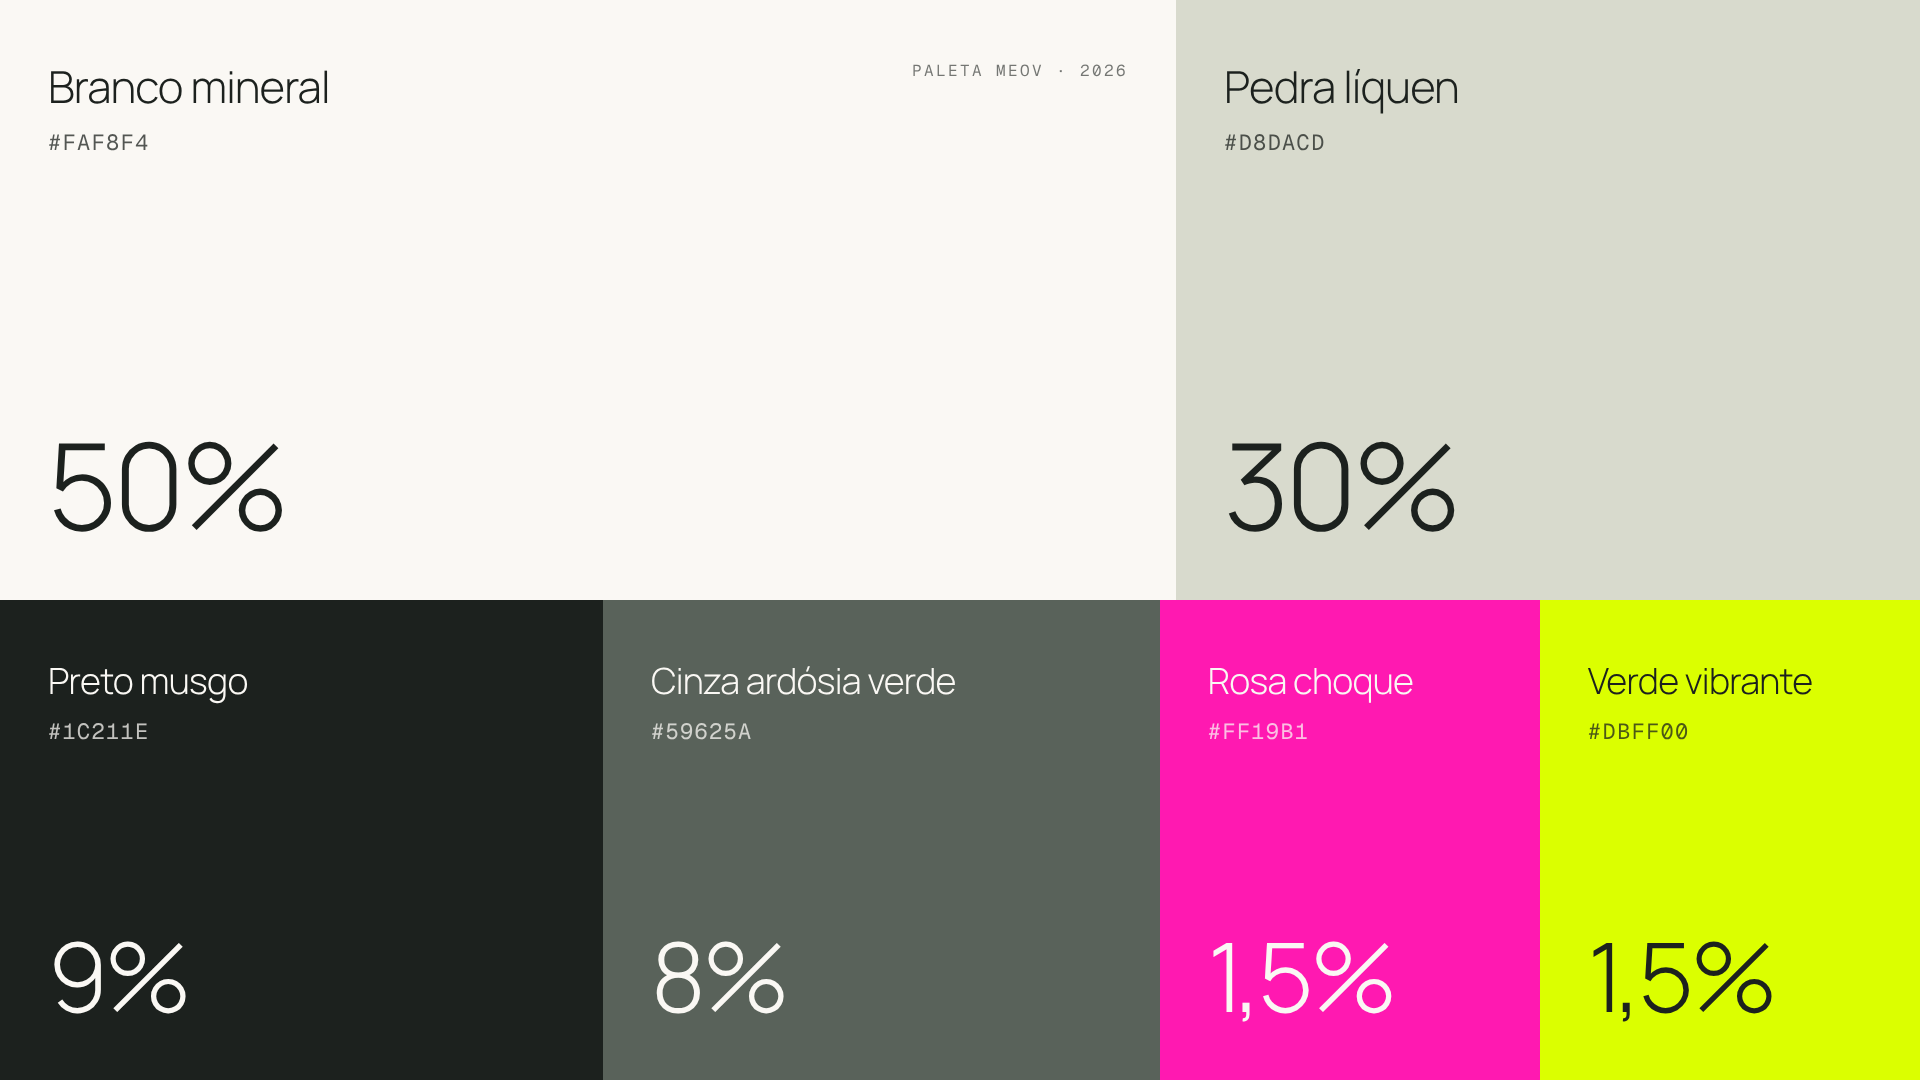
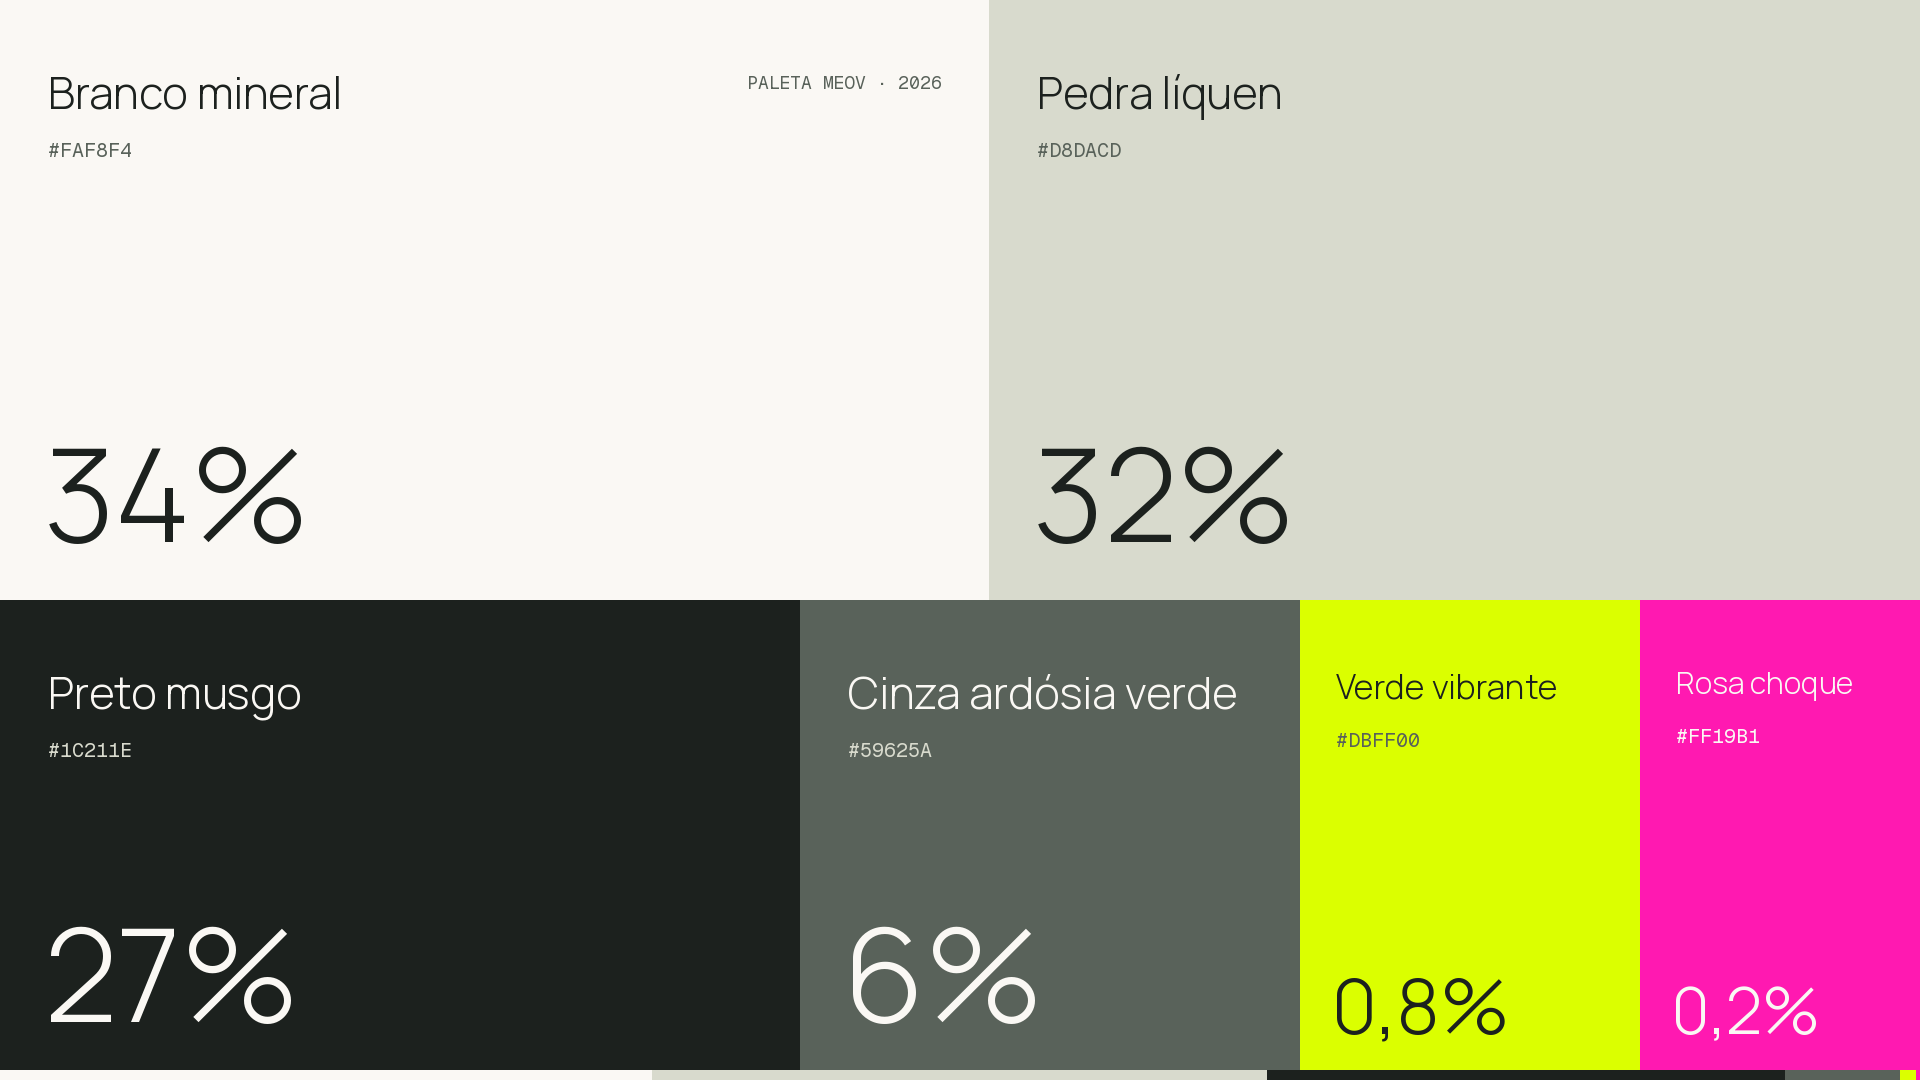
Revisa proporção da paleta da Meov
Branco 34%, pedra 32%, musgo 27%, ardósia 6%, verde 0,8% e rosa 0,2%.
Rosa passa a ser só detalhe estratégico e o verde, destaque de apoio.
Atualiza a imagem da paleta, o guia da marca e o guia das propostas.

Claude-Session: https://claude.ai/code/session_014T5j9G2CXQ5dQ1witiBPgc

diff --git a/brand/meov/paleta/gerador/paleta.py b/brand/meov/paleta/gerador/paleta.py
@@ -1,0 +1,31 @@
+from PIL import Image, ImageDraw, ImageFont
+import sys
+import os
+F=os.environ.get('FONT_DIR', os.path.expanduser('~/.fonts/'))
+light=lambda s: ImageFont.truetype(F+'Manrope_wght_300.ttf', s)
+mono=lambda s: ImageFont.truetype(F+'Geist_Mono_wght_400.ttf', s)
+W,H=1920,1080
+cols=[('Branco mineral','#FAF8F4','34%','#1C211E','#59625A'),('Pedra líquen','#D8DACD','32%','#1C211E','#59625A'),
+      ('Preto musgo','#1C211E','27%','#FAF8F4','#D8DACD'),('Cinza ardósia verde','#59625A','6%','#FAF8F4','#D8DACD'),
+      ('Verde vibrante','#DBFF00','0,8%','#1C211E','#59625A'),('Rosa choque','#FF19B1','0,2%','#FAF8F4','#FAF8F4')]
+props=[34,32,27,6,0.8,0.2]
+im=Image.new('RGB',(W,H)); d=ImageDraw.Draw(im)
+def block(x,y,w,h,c,big,nsize=44,psize=130):
+    n,bg,p,fg,sub=c
+    d.rectangle([x,y,x+w,y+h],fill=bg)
+    pad=48 if w>400 else 36
+    d.text((x+pad,y+62),n,font=light(nsize),fill=fg)
+    d.text((x+pad,y+62+nsize+30),bg,font=mono(20),fill=sub)
+    d.text((x+pad-4,y+h-pad-10),p,font=light(psize),fill=fg,anchor='ls')
+TH=600
+w1=round(W*34/66)
+block(0,0,w1,TH,cols[0],True); block(w1,0,W-w1,TH,cols[1],True)
+d.text((w1-48,70),'PALETA MEOV · 2026',font=mono(18),fill='#59625A',anchor='ra')
+ws=[800,500,340,280]; x=0
+for c,w,ns,ps in zip(cols[2:],ws,[44,44,34,30],[130,130,76,64]):
+    block(x,TH,w,H-TH,c,False,ns,ps); x+=w
+# faixa com a proporção real
+y0=H-10; x=0
+for c,p in zip(cols,props):
+    w=W*p/100; d.rectangle([x,y0,x+w,H],fill=c[1]); x+=w
+im.save(sys.argv[1])

diff --git a/brand/meov/README.md b/brand/meov/README.md
@@ -58,18 +58,18 @@ brand/meov/
 
 ## Paleta de cores (`paleta/`)
 
-Paleta atual, com a proporção de uso de cada cor. A marca Meov é a soma do **rosa** e do **verde** sobre o branco e os tons de cinza, então os dois aparecem na mesma medida.
+Paleta atual, com a proporção de uso de cada cor (revisada em outubro de 2026). A base é feita de branco, pedra e musgo; o **verde** é o destaque de apoio e o **rosa** aparece só em detalhes estratégicos.
 
 | Nome | HEX | Proporção | Uso |
 |---|---|---|---|
-| Branco mineral | `#FAF8F4` | 50% | fundo principal |
-| Pedra líquen | `#D8DACD` | 30% | cartões e superfícies |
-| Preto musgo | `#1C211E` | 9% | textos e peças de elegância |
-| Cinza ardósia verde | `#59625A` | 8% | textos de apoio |
-| Rosa choque | `#FF19B1` | 1,5% | destaque, em par com o verde |
-| Verde vibrante | `#DBFF00` | 1,5% | destaque, em par com o rosa |
+| Branco mineral | `#FAF8F4` | 34% | fundo de slides e peças com imagens e prints |
+| Pedra líquen | `#D8DACD` | 32% | fundo principal, cartões e superfícies |
+| Preto musgo | `#1C211E` | 27% | textos, fundos de elegância e capas |
+| Cinza ardósia verde | `#59625A` | 6% | textos de apoio e linhas |
+| Verde vibrante | `#DBFF00` | 0,8% | destaque de apoio: ícones, um cartão ou faixa por peça |
+| Rosa choque | `#FF19B1` | 0,2% | só detalhes estratégicos: o ponto que guia o olhar, o número que importa |
 
-Referência visual: `paleta/meov-paleta-atual.png`. A paleta parte da base da Aho, com o verde folha trocado pelo rosa da Meov.
+Referência visual: `paleta/meov-paleta-atual.png` (gerada por `paleta/gerador/paleta.py`, com Manrope e Geist Mono instaladas). A faixa fina na base da imagem mostra a proporção real. A paleta parte da base da Aho, com o verde folha trocado pelo rosa da Meov.
 
 **Paleta da identidade de 2023 (anterior):** preto uva passa `#202020`, verde vibrante `#DBFF00`, rosa choque `#FF19B1`, azul fluorescente `#31F8FF`, cinza tempestade `#4F5F66` e branco `#FFFFFF`. Referência: `paleta/meov-paleta-2023.png`. O pattern, as texturas e os logos em `logo/2023/` ainda usam essas cores.
 
@@ -102,7 +102,7 @@ SVGs na paleta atual. As versões **com fundo** têm 91,44 × 91,44 mm, como os 
 
 Visão geral de todas as versões: `logo/meov-logos-visao-geral.png`.
 
-Combinações recomendadas: preto musgo sobre fundos claros, branco mineral ou verde vibrante sobre fundos escuros, e o par rosa + verde como destaque. Evite verde vibrante sobre fundos claros, porque o contraste é baixo.
+Combinações recomendadas: preto musgo sobre fundos claros, branco mineral ou verde vibrante sobre fundos escuros; rosa só como detalhe. Evite verde vibrante sobre fundos claros, porque o contraste é baixo.
 
 ### Símbolo (`logo/simbolo/`)
 

diff --git a/propostas/README.md b/propostas/README.md
@@ -11,12 +11,12 @@ As propostas seguem a paleta e a tipografia atuais da Meov, descritas em [`brand
 
 | Cor | HEX | Uso |
 |---|---|---|
-| Branco mineral | `#FAF8F4` | 50% · fundo principal |
-| Pedra líquen | `#D8DACD` | 30% · cartões e superfícies |
-| Preto musgo | `#1C211E` | 9% · textos e slides de elegância |
-| Cinza ardósia verde | `#59625A` | 8% · textos de apoio |
-| Rosa choque | `#FF19B1` | destaque, na mesma medida que o verde |
-| Verde vibrante | `#DBFF00` | destaque, na mesma medida que o rosa |
+| Branco mineral | `#FAF8F4` | 34% · fundo de slides com prints e imagens |
+| Pedra líquen | `#D8DACD` | 32% · fundo principal, cartões e superfícies |
+| Preto musgo | `#1C211E` | 27% · textos, capas e slides de elegância |
+| Cinza ardósia verde | `#59625A` | 6% · textos de apoio e linhas |
+| Verde vibrante | `#DBFF00` | 0,8% · destaque de apoio |
+| Rosa choque | `#FF19B1` | 0,2% · só detalhes estratégicos |
 
 | Fonte | Uso |
 |---|---|
@@ -27,13 +27,7 @@ Regras: títulos leves e curtos, dois pesos por peça, mono só para dados e ró
 
 > As duas fontes são gratuitas no Google Fonts. Para editar o `.pptx` com a aparência correta, instale-as. Para enviar ao cliente, prefira o **PDF**, que já leva as fontes embutidas.
 
-### Ajuste de cores da proposta do Fernando (R03)
-
-Só nesta proposta, enquanto a paleta geral não é revisada:
-- fundos: pedra líquen na maioria dos slides; o restante dividido entre branco mineral e preto musgo;
-- rosa só em detalhes estratégicos (ponto do rótulo, barra da presença digital, camada Confiança, valor final, onda do "depois");
-- verde um pouco mais presente que o rosa; ícones em círculo musgo com traço verde;
-- molduras das fotos em branco mineral.
+A proposta do Fernando (R03) foi a primeira com essa proporção: rosa no ponto dos rótulos, na barra da presença digital, na camada Confiança, no valor final e na onda do "depois"; ícones em círculo musgo com traço verde; molduras das fotos em branco mineral.
 
 ## Antes de montar cada nova proposta, perguntar
 
